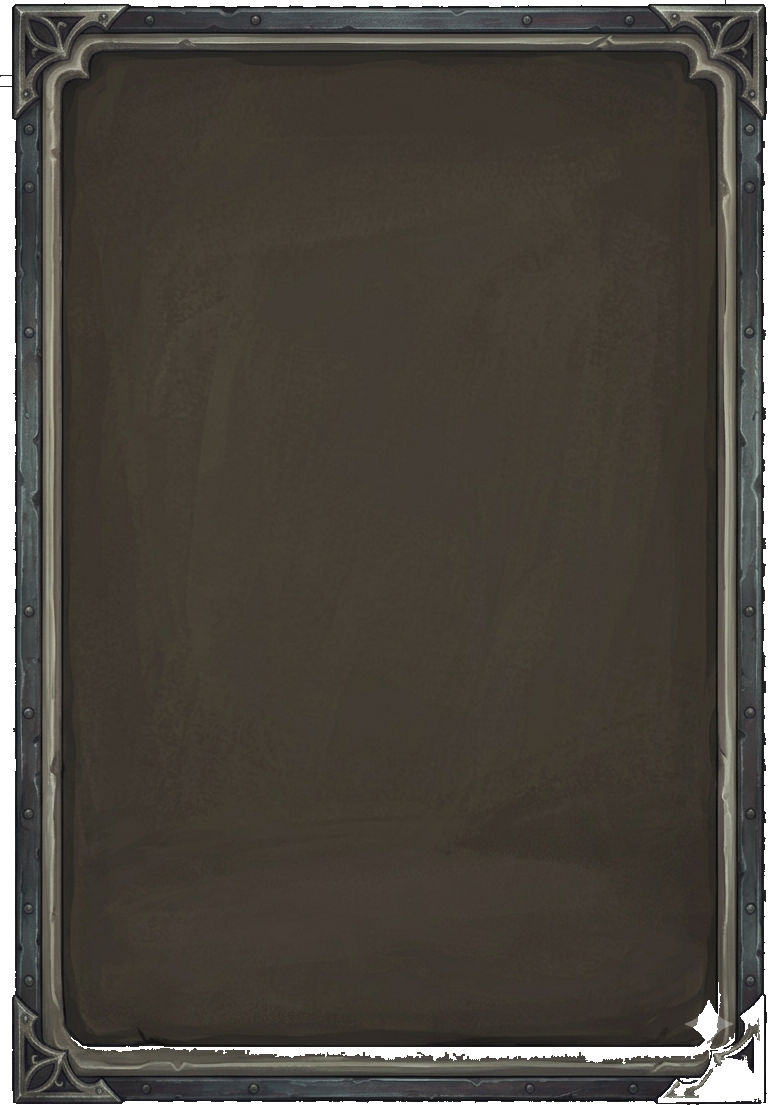
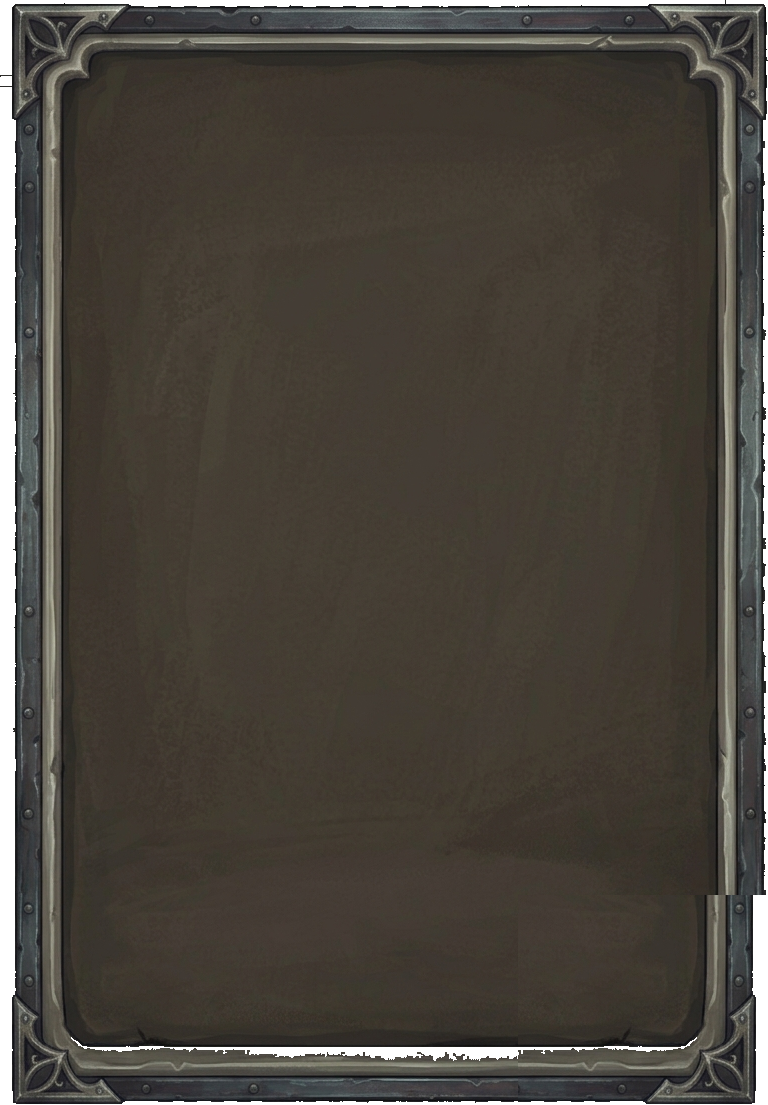
Reparar o canto da moldura e deixar o painel translúcido
O canto inferior DIREITO do eq_frame.png veio corrompido na arte: um rasgo
transparente cortando o metal, com o ornamento quebrado — era isso que
aparecia "ruim" na lateral direita, não o CSS. Reparado espelhando o canto
inferior esquerdo (que está perfeito) sobre ele. Como a moldura é
compartilhada, todas as janelas do jogo ganham o canto correto.

Painel do item agora TRANSLÚCIDO (alpha .78/.80 + leve blur), no tom do PoE,
em vez de quase opaco.

Claude-Session: https://claude.ai/code/session_013WvcxhCgG4YoQ53hJyUeUZ

Changed region(s): [[0.6875, 0.8, 1.0, 1.0]]

diff --git a/grimhollow/src/game/controls.ts b/grimhollow/src/game/controls.ts
@@ -3786,7 +3786,8 @@ function injectStyle() {
      sobra vão em canto nenhum. z-index:-1 → a arte da moldura pinta por cima dele. */
   #gh-itip::before {
     content:""; position:absolute; inset:-12px; z-index:-1;
-    background:rgba(6,5,6,.96); border-radius:16px;
+    background:rgba(6,5,7,.78); border-radius:16px; /* translúcido, estilo PoE */
+    backdrop-filter:blur(2px);
   }
   /* cabeçalho: faixa tingida pela raridade, nome CENTRALIZADO + tipo-base */
   .gh-itip-hdr {
@@ -4117,7 +4118,8 @@ function injectStyle() {
   /* painel escuro arredondado, avançando por baixo da moldura (ver #gh-itip::before) */
   #gh-plist .gh-pl-win::before {
     content:""; position:absolute; inset:-11px; z-index:-1;
-    background:rgba(6,5,6,.96); border-radius:15px;
+    background:rgba(6,5,7,.80); border-radius:15px; /* translúcido, estilo PoE */
+    backdrop-filter:blur(2px);
   }
   #gh-plist .gh-pl-hd {
     font-family:"Cinzel",serif; font-weight:700; text-align:center; color:#f0d074;
